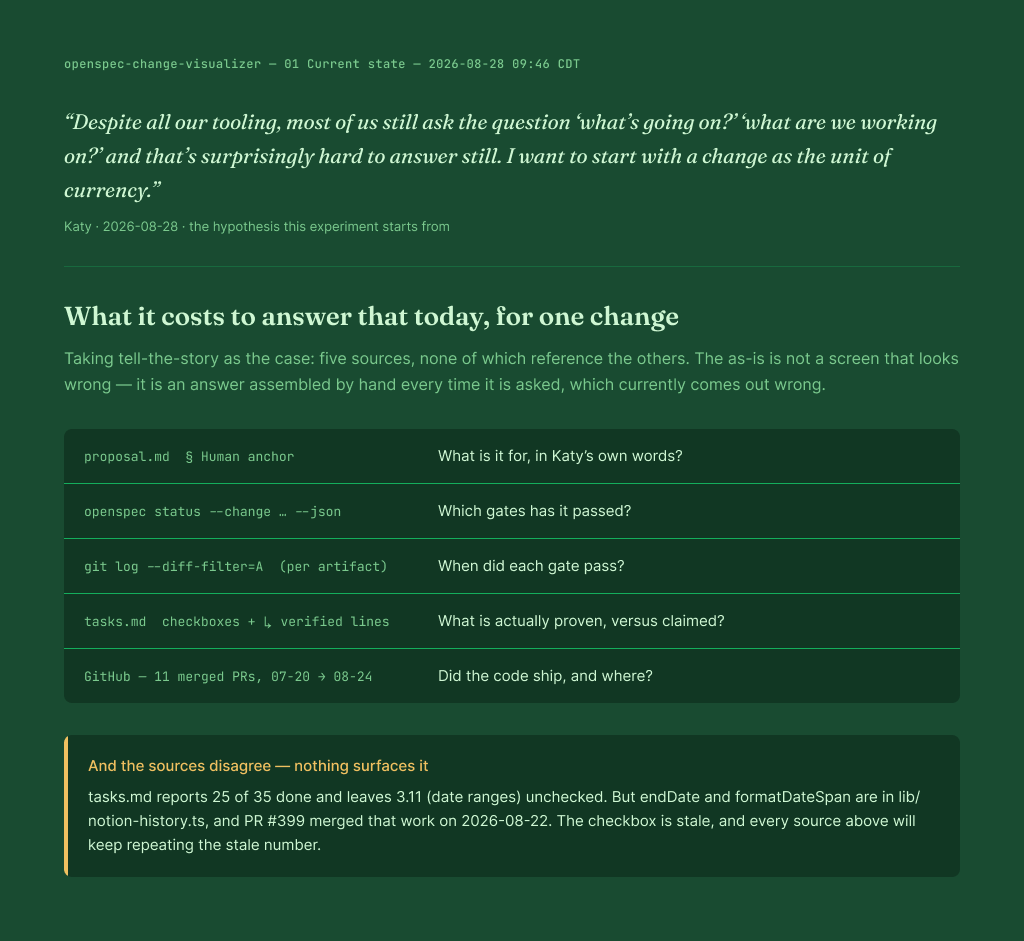
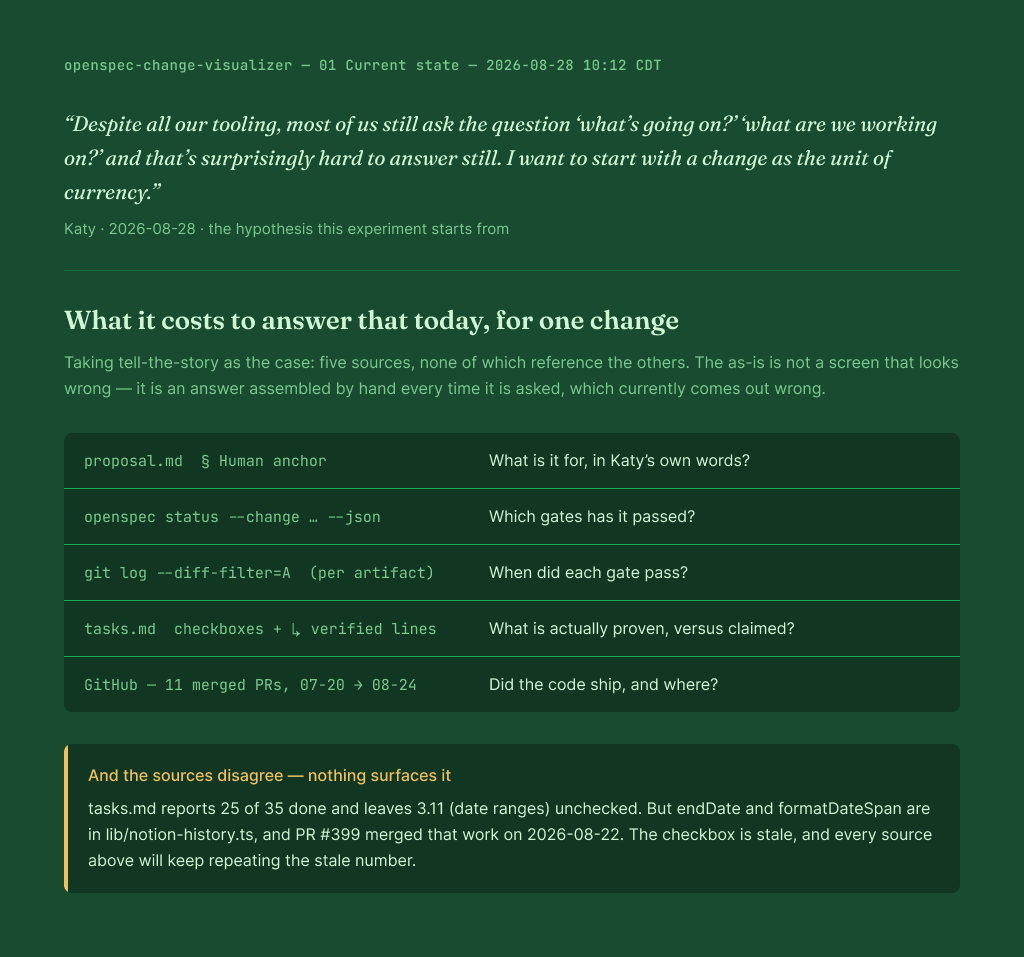
docs(openspec-change-visualizer): larger type scale, and the hard cases on 02.2 / 02.3
02.2 raises every small size one step (11→13, 12→14, 13/14→15, 15→16) across
the card and the current-state frame — the numerals were unreadable at 11 and 12.

02.3 works the hardest real change in the repo, pdf-metadata-viewer-cloud, and
adds three things the single-spine card could not carry:

- CAPABILITIES band. Twelve of forty-six changes hold two or more capabilities;
  requirements are the durable per-capability unit, tasks are not.
- Revision marks on the gate rail (08-14 ↻ 08-18) plus a LOOPS band. Gates are
  not monotonic: a failed spike on 2026-08-18 sent this change from apply back
  to design, superseding decision 2.1 and rewriting a spec.
- An honest unmapped state. This change organises tasks as ten workstreams
  rather than spec scenarios, so per-capability progress cannot be derived;
  the card says so instead of inventing a split.

diff --git a/experiments/openspec-change-visualizer/docs/intent.md b/experiments/openspec-change-visualizer/docs/intent.md
@@ -160,7 +160,9 @@ discovery, so there is nothing to specify until the frame has been argued with.
 | `fileKey` | `2FEqaAxp50skge0yJI5wAC` |
 | `01 Current state` | `Current state · Desktop 1024` (`1:3`) — opens on the hypothesis above, then the five sources and the disagreement between them |
 | `02 Proposed` | `Proposed · Change card · Desktop 1024` (`5:2`) — first iteration: six bands, filled with `tell-the-story`'s real values |
-| `02.1 Proposed — every outcome, its evidence, and frame provenance` | `Proposed · Change card · Desktop 1024` (`9:3`) — current iteration: all eleven outcomes with their measurement kind, plus the provenance stamp |
+| `02.1 Proposed — every outcome, its evidence, and frame provenance` | `Proposed · Change card · Desktop 1024` (`9:3`) — all eleven outcomes with their measurement kind, plus the provenance stamp |
+| `02.2 Proposed — larger type scale` | `Proposed · Change card · Desktop 1024` (`10:3`) — same card, every small size raised one step (11→13, 12→14, 13/14→15, 15→16) |
+| `02.3 Proposed — multiple capabilities, and a loop back to design` | `Proposed · Change card · Desktop 1024` (`11:3`) — current iteration: the hard case, worked against `pdf-metadata-viewer-cloud` |
 
 Iterations get a **new numbered page** each time, per `rules/figma.mdc` — `02`
 stays intact as the record of what the first pass looked like, and is not edited
@@ -181,3 +183,63 @@ revised in place.
 
 `01 Current state` is a diagram of the problem rather than a reconstructed screen,
 because no surface answers this question today — that absence is the as-is.
+
+## The harder shapes the card has to survive
+
+`tell-the-story` is a kind change: one capability, one spec, a clean forward
+march. Most of the repo is not that, and the single-spine card breaks in three
+places. `02.3` works the hardest real case in the repo —
+`pdf-metadata-viewer-cloud` — rather than a hypothetical.
+
+### More than one capability — 12 of 46 changes
+
+Not an edge case. `pdf-metadata-viewer-cloud` and `linked-repos` carry three
+capabilities each; `2026-05-21-seed-packet-crud-and-custom-fields` carries four.
+
+**Requirements are the durable unit, not tasks.** They live per capability and
+every change has them, so the CAPABILITIES band lists one row per capability with
+its requirement count and any per-capability event —
+`drive-document-source · 7 requirements · rewritten 08-18, after the spike failed`.
+
+### The gates are not monotonic
+
+Changes go backwards, and the rail as first drawn reported only each artifact's
+*first* commit, which hides it entirely:
+
+- **`pdf-metadata-viewer-cloud`, 2026-08-18 — apply → design.** Spike 2.1a was run
+  against the live Drive grant and failed: a `drive.file` folder grant reached one
+  accessible item (the folder) and zero PDFs, so the import returned
+  `success: true, imported: 0` — indistinguishable from an empty folder. Decision
+  2.1 was superseded the same day, D9a added 115 lines to `design.md`, and the
+  `drive-document-source` spec was rewritten (+55 / −20). Shipped as #389.
+- **`tell-the-story`, 2026-07-21 — design → proposal.** Four days after `design.md`
+  was approved, the proposal was reopened to retract a false premise: "the hub's
+  git history is truncated at 2026-06-21" became "**Not true.**" That retraction
+  changed the source model the whole change rests on.
+
+So the rail carries a revision mark — `08-14 ↻ 08-18` — on any gate touched after
+a later gate opened, and a **LOOPS** band says what the loop changed and why.
+A loop is not failure; it is usually the most informative thing that happened, and
+it is currently the least visible.
+
+The repo already writes loops down in prose, with dates: `~~…~~ **Not true.**`,
+`**superseded 2026-08-18**`, `**retracted 2026-07-21**`, `**narrowed 2026-07-21**`.
+Those markers are machine-findable and carry the *reason*, not just the fact.
+
+### Not every change is shaped like the schema says
+
+Two assumptions the first card made, both false in the general case:
+
+- **`tasks.md` §1 is not always the user outcomes.** The lite schema asks for §1 to
+  mirror spec scenarios 1:1. `pdf-metadata-viewer-cloud` instead organises ten
+  workstreams (Prove the premise, Data layer, Identity and access, …), so progress
+  cannot be split per capability at all. The card reports the honest total — 34
+  done · 1 partial · 33 open of 68 — and states why it cannot split it, rather
+  than inventing a mapping.
+- **Not every change has a quoted anchor.** `pdf-metadata-viewer-cloud` has a
+  `## Why` and a link to `experiments/pdf-metadata-viewer/docs/intent.md`, no
+  quoted founder line. The card shows what exists and labels the absence.
+
+Both are cases where the card's real job is to say *this is missing* in the same
+breath as everything it does have. A card that only renders well-formed changes
+would answer "what's going on" for the changes that least need asking.
